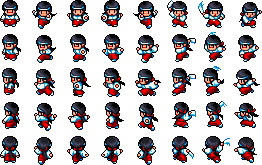
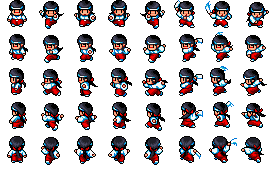
nuevo

diff --git a/src/Personaje.cpp b/src/Personaje.cpp
@@ -31,11 +31,11 @@ void Personaje::init(const char* image)
 	SizeGfx.x = 0; // RAFEL: Si queremos cambiar el frame, estos son los valores a tocar.
 	SizeGfx.y = 0; // RAFEL: Si queremos cambiar el frame, estos son los valores a tocar.
 	SizeGfx.w = 34; // RAFEL: Cambio valores para ejemplo con guybush
-	SizeGfx.h = 27; // RAFEL: Cambio valores para ejemplo con guybush
+	SizeGfx.h = 28; // RAFEL: Cambio valores para ejemplo con guybush
 	PositionRender.h = SizeGfx.h; // RAFEL: Cambio valores para ejemplo con guybush
 	PositionRender.w = SizeGfx.w; // RAFEL: Cambio valores para ejemplo con guybush
 	PositionRender.x = 200; // RAFEL: Estos son los valores a cambiar si lo quiero mover.
-	PositionRender.y = 300; // RAFEL: Estos son los valores a cambiar si lo quiero mover.
+	PositionRender.y = 350; // RAFEL: Estos son los valores a cambiar si lo quiero mover.
 	//mudar variaveis pelas variaveis que tenho em video
 	 _dir= DOWN;
 
@@ -54,7 +54,13 @@ void Personaje::update()
 		timeFrame = 0;
 	}
 	
+	if (InputManager::getInstance()->getAtaque() == true) {
 
+		_atacando = true;
+
+		//collider(6);
+
+	}
 	if (InputManager::getInstance()->getRight() == true) {
 		PositionRender.x += 5; 
 		_estado = MOVE;
@@ -85,22 +91,35 @@ void Personaje::update()
 		collider(2);
 		
 	}
-	if (InputManager::getInstance()->getParado() == true) {
+	/*
+	if (InputManager::getInstance()->getParado()||) {
 		_estado = IDLE;
 		frame = 0;
 	}
+	*/
+	if (!InputManager::getInstance()->getRight() && !InputManager::getInstance()->getLeft() && !InputManager::getInstance()->getUp() && !InputManager::getInstance()->getDown()) {
+		_estado = IDLE;
+		frame = 0;
+	}
+
 	switch (_dir)
 	{
 	case DOWN:
 		if (_estado == MOVE) {
 			SizeGfx.x = 0;
 			SizeGfx.y = 0;
-
+			/*
+			if (_atacando) {
+				SizeGfx.x = 0;
+				SizeGfx.y = (27 * 6) + (7 * 6);
+			}
+			*/
 	
 			//colocar animacao
 		}
 
 		if (_estado == IDLE) {
+			
 			SizeGfx.x = 0;
 			SizeGfx.y = 0;
 		}
@@ -165,35 +184,35 @@ void Personaje::collider(int _dir)
 {
 	switch (_dir) {
 	case 8:
-		while (!_instanceMap->getIDfromLayer(PositionRender.x, PositionRender.y)) {
+		while (!_instanceMap->getIDfromLayer(PositionRender.x+6, PositionRender.y)) {
 			PositionRender.y++;
 		}
-		while (!_instanceMap->getIDfromLayer(SizeGfx.w + PositionRender.x, PositionRender.y)) {
+		while (!_instanceMap->getIDfromLayer(SizeGfx.w + PositionRender.x-6, PositionRender.y)) {
 			PositionRender.y++;
 		}
 
 		break;
 	case 6:
-		while (!_instanceMap->getIDfromLayer(PositionRender.x+SizeGfx.w, PositionRender.y)) {
+		while (!_instanceMap->getIDfromLayer(PositionRender.x+SizeGfx.w-6, PositionRender.y)) {
 			PositionRender.x--;
 		}
-		while (!_instanceMap->getIDfromLayer(SizeGfx.w + PositionRender.x, SizeGfx.h + PositionRender.y)) {
+		while (!_instanceMap->getIDfromLayer(SizeGfx.w + PositionRender.x-6, SizeGfx.h + PositionRender.y)) {
 			PositionRender.x--;
 		}
 		break;
 	case 4:
-		while (!_instanceMap->getIDfromLayer(PositionRender.x, PositionRender.y)) {
+		while (!_instanceMap->getIDfromLayer(PositionRender.x+6, PositionRender.y)) {
 			PositionRender.x++;
 		}
-		while (!_instanceMap->getIDfromLayer(PositionRender.x, SizeGfx.h + PositionRender.y)) {
+		while (!_instanceMap->getIDfromLayer(PositionRender.x+6, SizeGfx.h + PositionRender.y)) {
 			PositionRender.x++;
 		}
 		break;
 	case 2:
-		while (!_instanceMap->getIDfromLayer(PositionRender.x, PositionRender.y+SizeGfx.h)) {
+		while (!_instanceMap->getIDfromLayer(PositionRender.x +6, PositionRender.y+SizeGfx.h)) {
 			PositionRender.y--;
 		}
-		while (!_instanceMap->getIDfromLayer(SizeGfx.w + PositionRender.x, SizeGfx.h + PositionRender.y)) {
+		while (!_instanceMap->getIDfromLayer(SizeGfx.w + PositionRender.x-6, SizeGfx.h + PositionRender.y)) {
 			PositionRender.y--;
 		}
 		break;

diff --git a/src/InputManager.cpp b/src/InputManager.cpp
@@ -22,36 +22,52 @@ void InputManager::update()
 	while (SDL_PollEvent(&test_event)) {
 		switch (test_event.type) {
 		case SDL_KEYDOWN:
-			_parado = false;
+
 			if (test_event.key.keysym.scancode == SDL_SCANCODE_D) {
 				right = true;
+				//_parado = false;
 			}
 			if (test_event.key.keysym.scancode == SDL_SCANCODE_A) {
 				left = true;
+				//_parado = false;
 			}
 			
 			if (test_event.key.keysym.scancode == SDL_SCANCODE_S) {
 				down = true;
+				//_parado = false;
 			}
 			
 			if (test_event.key.keysym.scancode == SDL_SCANCODE_W) {
 				up = true;
+				//_parado = false;
+			}
+			if (test_event.key.keysym.scancode == SDL_SCANCODE_SPACE) {
+				_ataque = true;
+				//_parado = false;
 			}
 			
 			break;
 		case SDL_KEYUP:
-			_parado = true;
+
 			if (test_event.key.keysym.scancode == SDL_SCANCODE_D) {
 				right = false;
+				//_parado = true;
 			}
 			if (test_event.key.keysym.scancode == SDL_SCANCODE_A) {
 				left = false;
+				//_parado = true;
 			}
 			if (test_event.key.keysym.scancode == SDL_SCANCODE_S) {
 				down = false;
+				//_parado = true;
 			}
 			if (test_event.key.keysym.scancode == SDL_SCANCODE_W) {
 				up = false;
+				//_parado = true;
+			}
+			if (test_event.key.keysym.scancode == SDL_SCANCODE_SPACE) {
+				_ataque = false;
+				//_parado = false;
 			}
 		
 			break;
@@ -81,7 +97,16 @@ bool InputManager::getUp()
 	return up;
 }
 
+bool InputManager::getAtaque()
+{
+	return _ataque;
+}
+
+/*
+
 bool InputManager::getParado()
 {
 	return _parado;
 }
+
+*/

diff --git a/src/InputManager.h b/src/InputManager.h
@@ -11,6 +11,7 @@ class InputManager
 	bool left;
 	bool up; 
 	bool down;
+	bool _ataque;
 	bool _parado;
 public:
 	
@@ -20,6 +21,7 @@ public:
 	bool getLeft();
 	bool getDown();
 	bool getUp();
+	bool getAtaque();
 	bool getParado();
 
 	static InputManager* getInstance()

diff --git a/src/Principal.h b/src/Principal.h
@@ -8,7 +8,7 @@ struct MyRectangle
 {
 	int x,y,w,h;
 };
-enum Estado { IDLE,MOVE,ATTACK,HURT,DEAD };
+enum Estado { IDLE,MOVE,HURT,DEAD };
 enum Dir { UP, DOWN, LEFT, RIGHT };
 
 class Principal

diff --git a/src/Personaje.h b/src/Personaje.h
@@ -14,7 +14,7 @@ public:
 	void collider(int _dir);
 private:
 	Mapa* _instanceMap;
-
+	bool _atacando;
 	int frame;
 	int timeFrame;
 	int maxTimeFrame;
